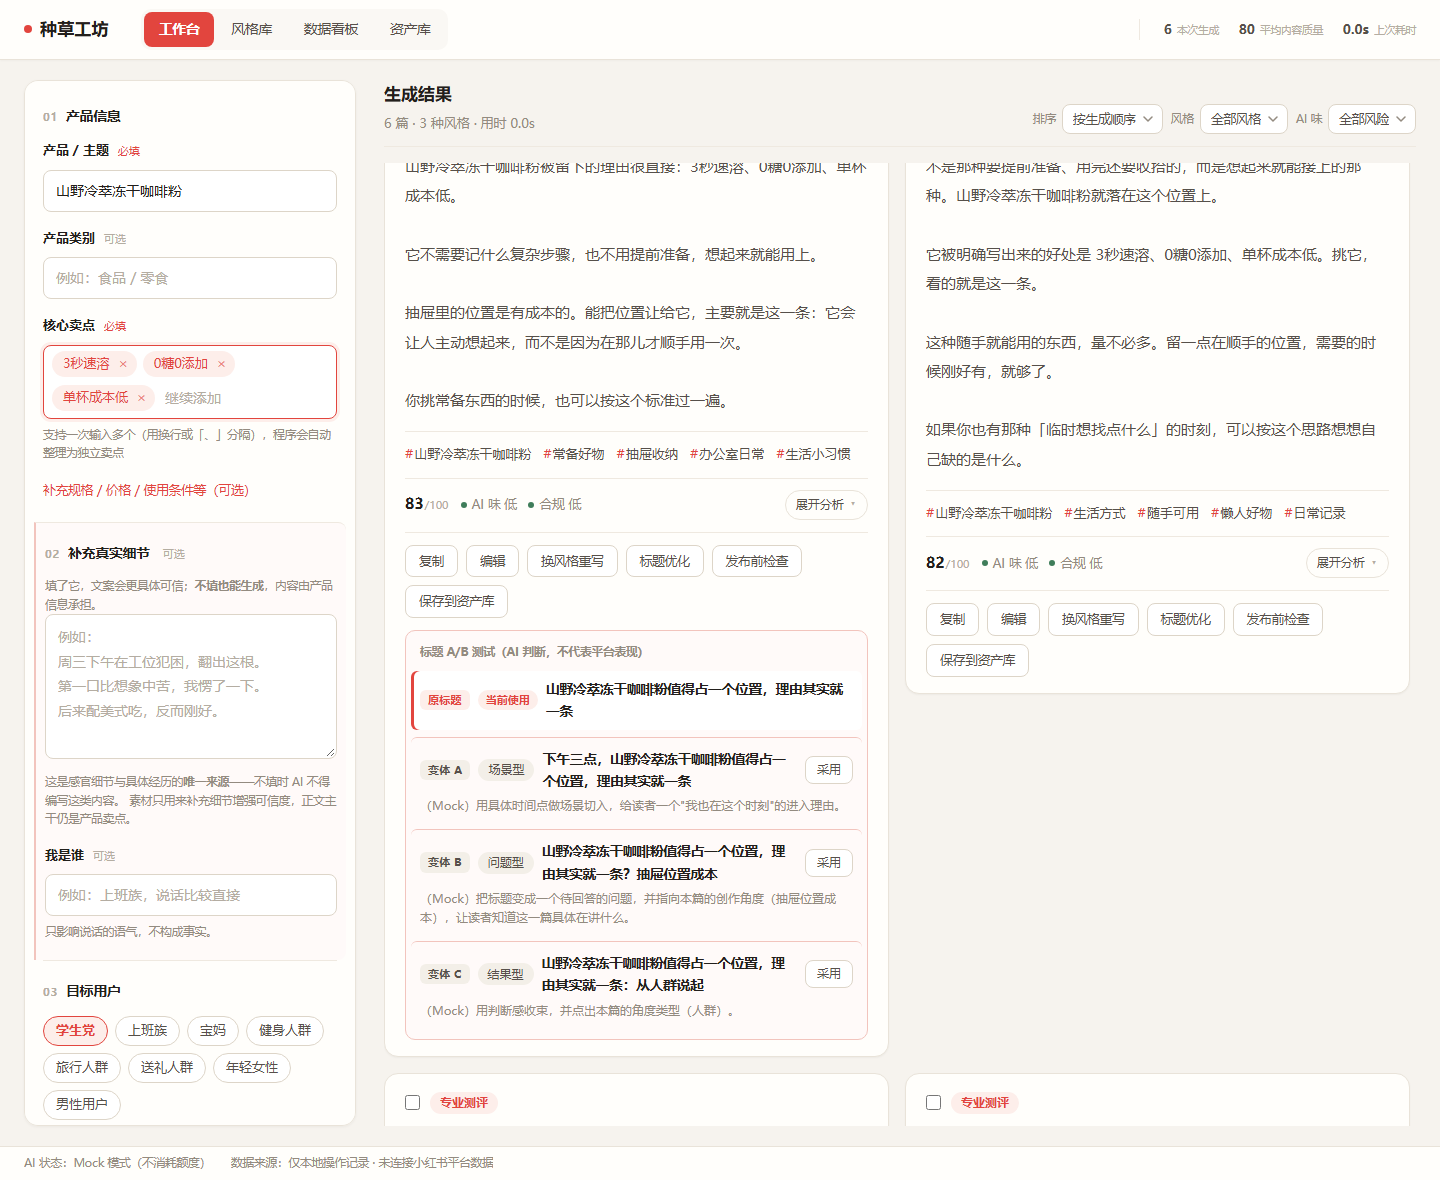
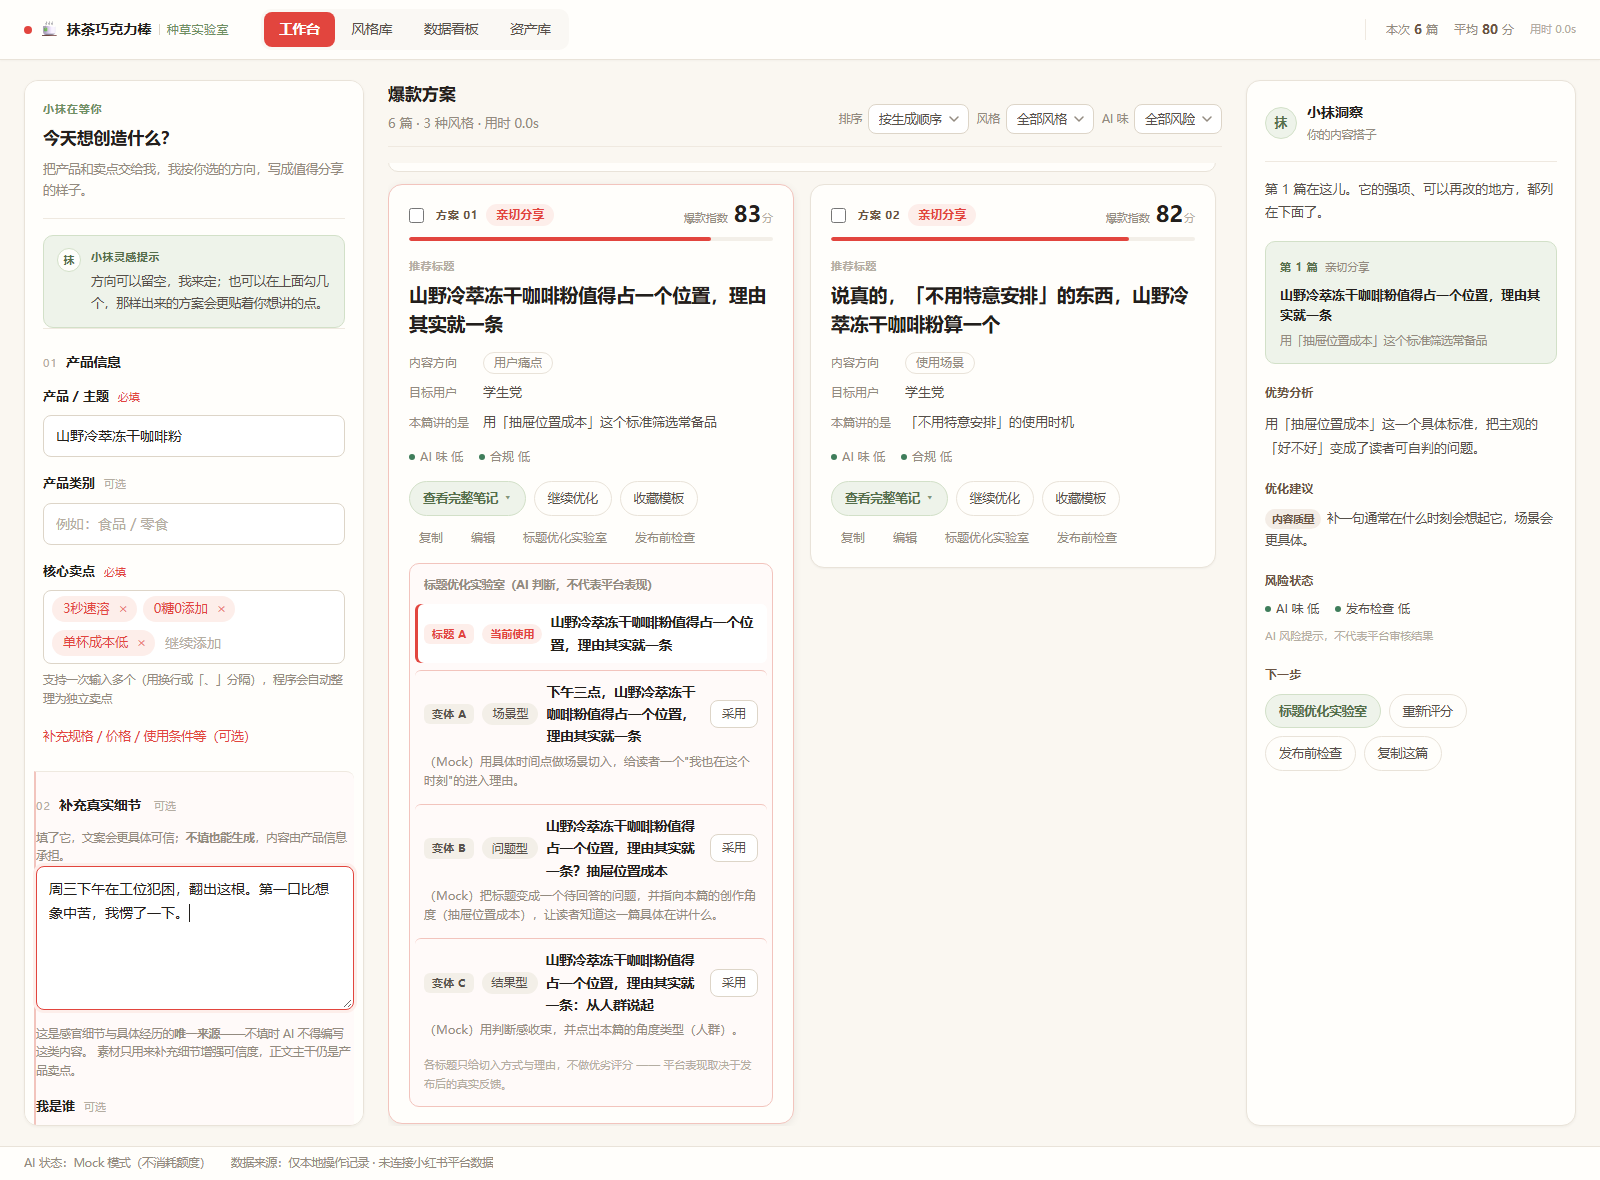
docs: update demo screenshots and documentation

diff --git a/README.md b/README.md
@@ -289,39 +289,45 @@ sudo ufw allow 3001/tcp
 
 ### 工作台首屏
 
-左侧为配置栏（产品信息 / 目标用户 / 内容目标 / 内容方向 / 使用场景 / 文案风格 / 生成数量），右侧是尚未生成时的空状态与操作指引。
+桌面端三栏结构：左侧是**创作空间**（小抹灵感提示 + 产品信息 / 补充真实细节 / 目标用户 / 内容目标 / 我的创作方向 / 使用场景 / 文案类型 / 文案风格 / 生成数量），中间是**爆款方案**区，右侧是 **小抹洞察**。
 
 ![工作台首屏](docs/screenshots/01-workbench.png)
 
 ### 生成结果
 
-生成后先呈现本轮内容策略、与篇数一一对应的创作角度，以及程序计算的多样性报告；下方是卡片列表。
+每套方案一张卡片：`方案序号 · 风格 · 爆款指数（数字 + 进度条）` → 推荐标题 → 内容方向 / 目标用户 / 本篇讲的是 → 风险标记 → 操作区。本轮内容策略折叠为一行，需要时可展开。
 
 ![生成结果](docs/screenshots/02-generate-result.png)
 
-### 单篇卡片
+### 爆款方案卡片
 
-卡片的信息层级：`风格 / 方向 / 创作角度` → `标题` → `正文` → `话题标签` → `封面建议` → `六维评分` → `AI 味 / 发布检查` → `操作区`。
+卡片分三层：**L1 主层**（标题 → 正文 → 话题标签）· **L2 摘要层**（爆款指数 + 风险标记 + 展开按钮）· **L3 分析抽屉**（创作角度 / 封面建议 / 六维评分 / AI 味 / 发布检查，默认折叠）。图中同屏并列展示了展开态（左）与收起态（右）。
 
-![单篇卡片](docs/screenshots/03-notecard.png)
+![爆款方案卡片](docs/screenshots/03-notecard.png)
 
-### 标题 A/B
+### 标题优化实验室
 
-原标题与三个变体并列对比，当前使用的那一项有独立标记；采用后列表不消失，可反复切换。
+原标题与三个变体并列对比，每个变体带切入方式与「为什么这么写」的说明；当前使用的那一项有独立标记，采用后可反复切换。**不做优劣评分** —— 平台表现取决于发布后的真实反馈。
 
-![标题 A/B](docs/screenshots/04-title-ab.png)
+![标题优化实验室](docs/screenshots/04-title-ab.png)
 
-### 资产库
+### 我的创作收藏
 
-保存到本地的笔记，支持展开查看正文、标题 A/B 记录与产品信息。
+四个分区：**收藏笔记 / 标题模板 / 封面模板 / 风格资产**。收藏笔记可展开查看正文、标题记录、封面建议与产品信息。
 
-![资产库](docs/screenshots/05-assets.png)
+![我的创作收藏](docs/screenshots/05-assets.png)
 
-### 数据看板
+### 创作者成长旅程
 
-核心指标、最近 7 天趋势与内容结构分析（全部来自真实操作记录与已保存资产，无数据时显示 0 或空状态）。
+按时间线记录走过的路：只保留**真正发生过事情**的日子，没创作的那天不出现也不补 0。另有创作数量（两个主数 + 一行足迹）与「写下来的习惯」（均分 / 最常写的风格 / 写过的方向 / 风险情况）。
 
-![数据看板](docs/screenshots/06-review.png)
+![创作者成长旅程](docs/screenshots/06-review.png)
+
+### 我的创作风格资产
+
+内置六种写法各自的适用场景、语言特点与结构特点，并显示该风格下的收藏数；点「用这个风格」可直接带回创作区。
+
+![我的创作风格资产](docs/screenshots/07-style-assets.png)
 
 > ⚠ 以上截图为 **Mock 模式**下的界面：文案由本地确定性逻辑生成，**不是真实模型的输出**。
 > 真实 AI 模式下的界面完全一致，仅内容来源不同（页面底部状态栏会显示「真实 AI」而非「Mock 模式」）。

diff --git a/docs/screenshots/README.md b/docs/screenshots/README.md
@@ -4,32 +4,37 @@
 
 ## 当前状态
 
-**已包含 6 张截图**（见下表），均通过浏览器自动化在 **Mock 模式**下采集，主 README 的「八、界面截图」章节已引用。
+**已包含 7 张截图**（见下表），均通过浏览器自动化在 **Mock 模式**下采集，主 README 的「八、界面截图」章节已引用。
 
 ## 截图清单
 
 | 文件名 | 对应界面 | 采集视口 |
 |---|---|---|
-| `01-workbench.png` | 工作台首屏（左侧配置栏 + 右侧空状态） | 1440 × 1000 |
-| `02-generate-result.png` | 生成结果（内容策略 + 创作角度 + 卡片列表） | 1440 × 1240 |
-| `03-notecard.png` | 单篇卡片完整层级 | 1440 × 1560 |
-| `04-title-ab.png` | 标题 A/B（原标题 + 变体 A / B / C） | 1440 × 1180 |
-| `05-assets.png` | 资产库（列表 + 展开详情） | 1440 × 1240 |
-| `06-review.png` | 数据看板（指标 + 7 天趋势 + 结构分布） | 1440 × 1360 |
+| `01-workbench.png` | 工作台首屏（三栏：创作空间 · 爆款方案空态 · 小抹洞察） | 1600 × 1000 |
+| `02-generate-result.png` | 生成结果（爆款方案卡片列表 + 折叠的内容策略 + 右栏小抹洞察） | 1600 × 1240 |
+| `03-notecard.png` | 爆款方案卡片：展开态与收起态同屏（三级分层） | 1600 × 1560 |
+| `04-title-ab.png` | 标题优化实验室（标题 A + 变体 A / B / C） | 1600 × 1180 |
+| `05-assets.png` | 我的创作收藏（四分区 + 收藏笔记列表） | 1600 × 1240 |
+| `06-review.png` | 创作者成长旅程（创作数量 + 旅程时间线 + 写下来的习惯） | 1600 × 1200 |
+| `07-style-assets.png` | 我的创作风格资产（六种风格 + 已收藏计数） | 1600 × 900 |
 
 ## 重新生成
 
 截图是自动化采集的，数据来自本地 Mock：干净启动（清空 localStorage）→ 填写示例产品 → 生成 → 依次切换到各界面截图。若要重做，用 Mock 模式启动后按上表逐屏采集即可，注意：
 
 - 采集前先清空 `localStorage`，否则可能带上上一次的资产与统计
-- 视口宽度统一 1440px，高度按内容长度调整（上表已给出）
+- 视口宽度统一 **1600px**（三栏布局在 1440px 下中栏仅剩约 674px，偏挤），高度按内容长度调整（上表已给出）
 - 关闭滚动条渲染（headless 浏览器默认行为）以保证版面干净
 - **建议选 3 种风格、共 6 篇**（每种 2 篇）。Mock 的每种风格只有 3 条模板，
   单一风格且篇数 > 3 时会循环复用，角度区会出现成对的重复行、多样性显示
   「重复风险 中」——那是 Mock 的已知限制，但放进截图容易被误读为产品缺陷
-- 视口高度：`01` 1000 / `02` 1240 / `03` 1560 / `04` 1180 / `05` 1240 / `06` 1360
+- 演示输入沿用 [`Demo演示脚本.md`](../Demo演示脚本.md) 的产品与卖点
+  （山野冷萃冻干咖啡粉 / 3秒速溶、0糖0添加、单杯成本低 / 上班族 / 办公室 / 强种草推荐）
+- 视口高度：`01` 1000 / `02` 1240 / `03` 1560 / `04` 1180 / `05` 1240 / `06` 1200 / `07` 900
 
-> 截图采集于 2026-09-27，对应卡片**三级分层**改版（L1 主层 / L2 摘要层 / L3 折叠分析抽屉）。
+> 截图采集于 **2026-09-28**，对应**三栏工作台**与品牌化改版
+> （创作者品牌「抹茶巧克力棒 · 种草实验室」、右栏小抹洞察、爆款方案卡三级分层、
+> 创作收藏四分区、创作者成长旅程）。
 > `03-notecard.png` 同屏并列展示了展开态（左）与收起态（右）。
 
 ## 如何查看界面
